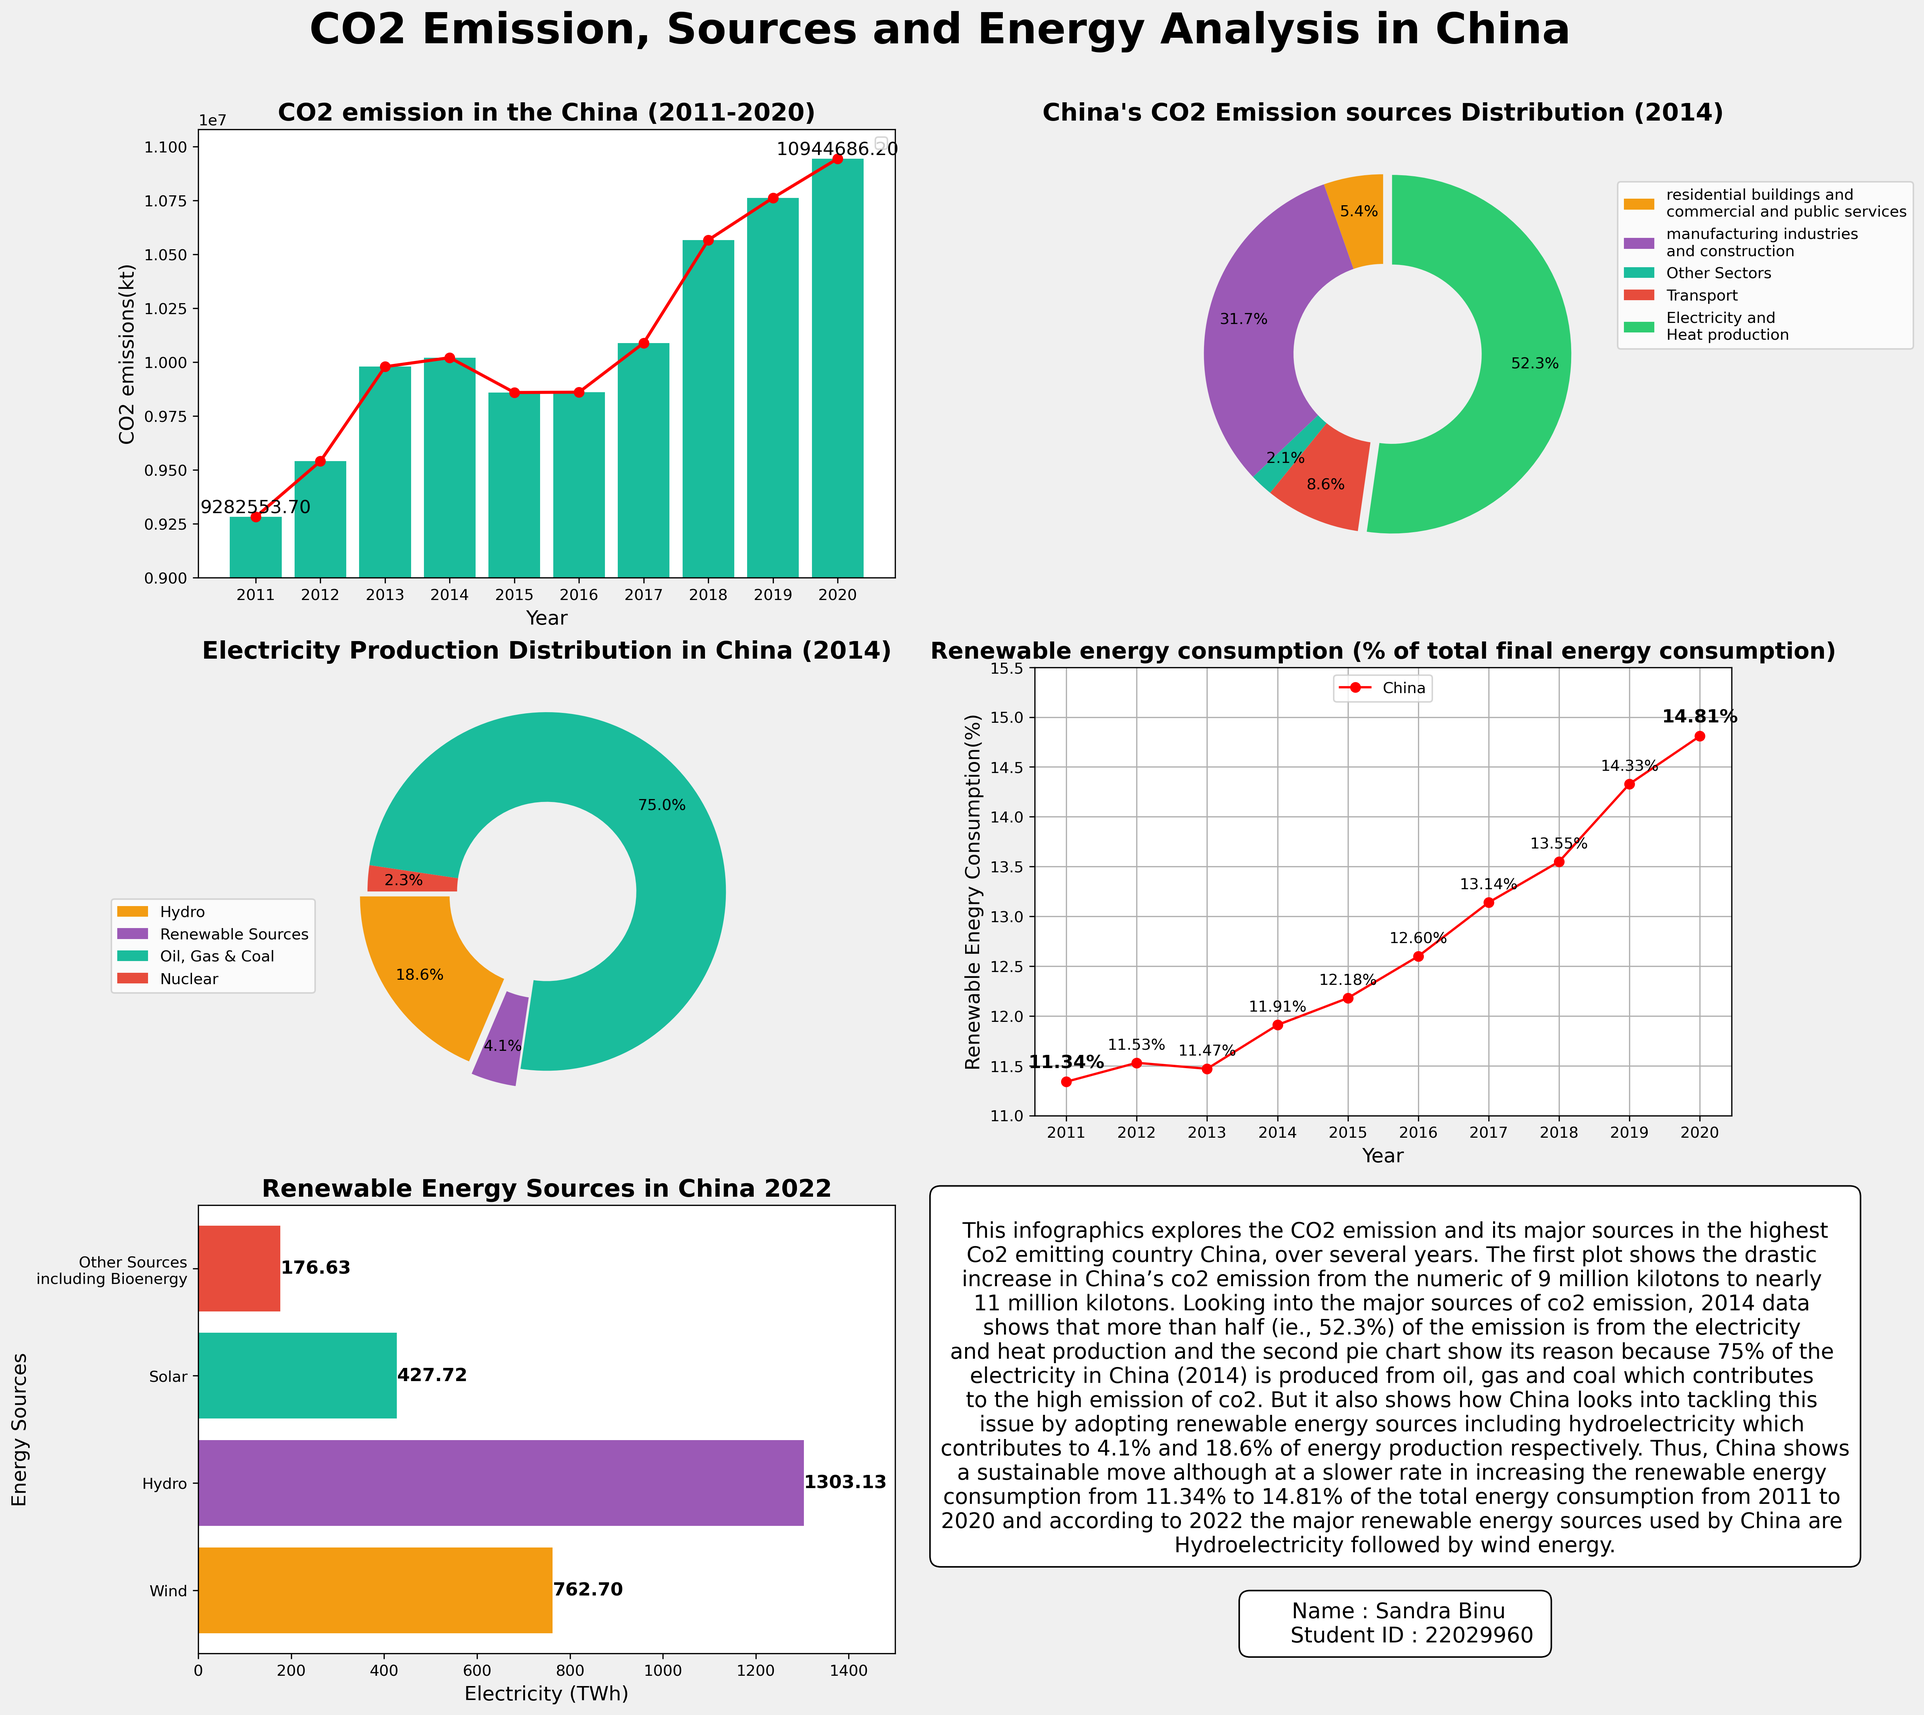
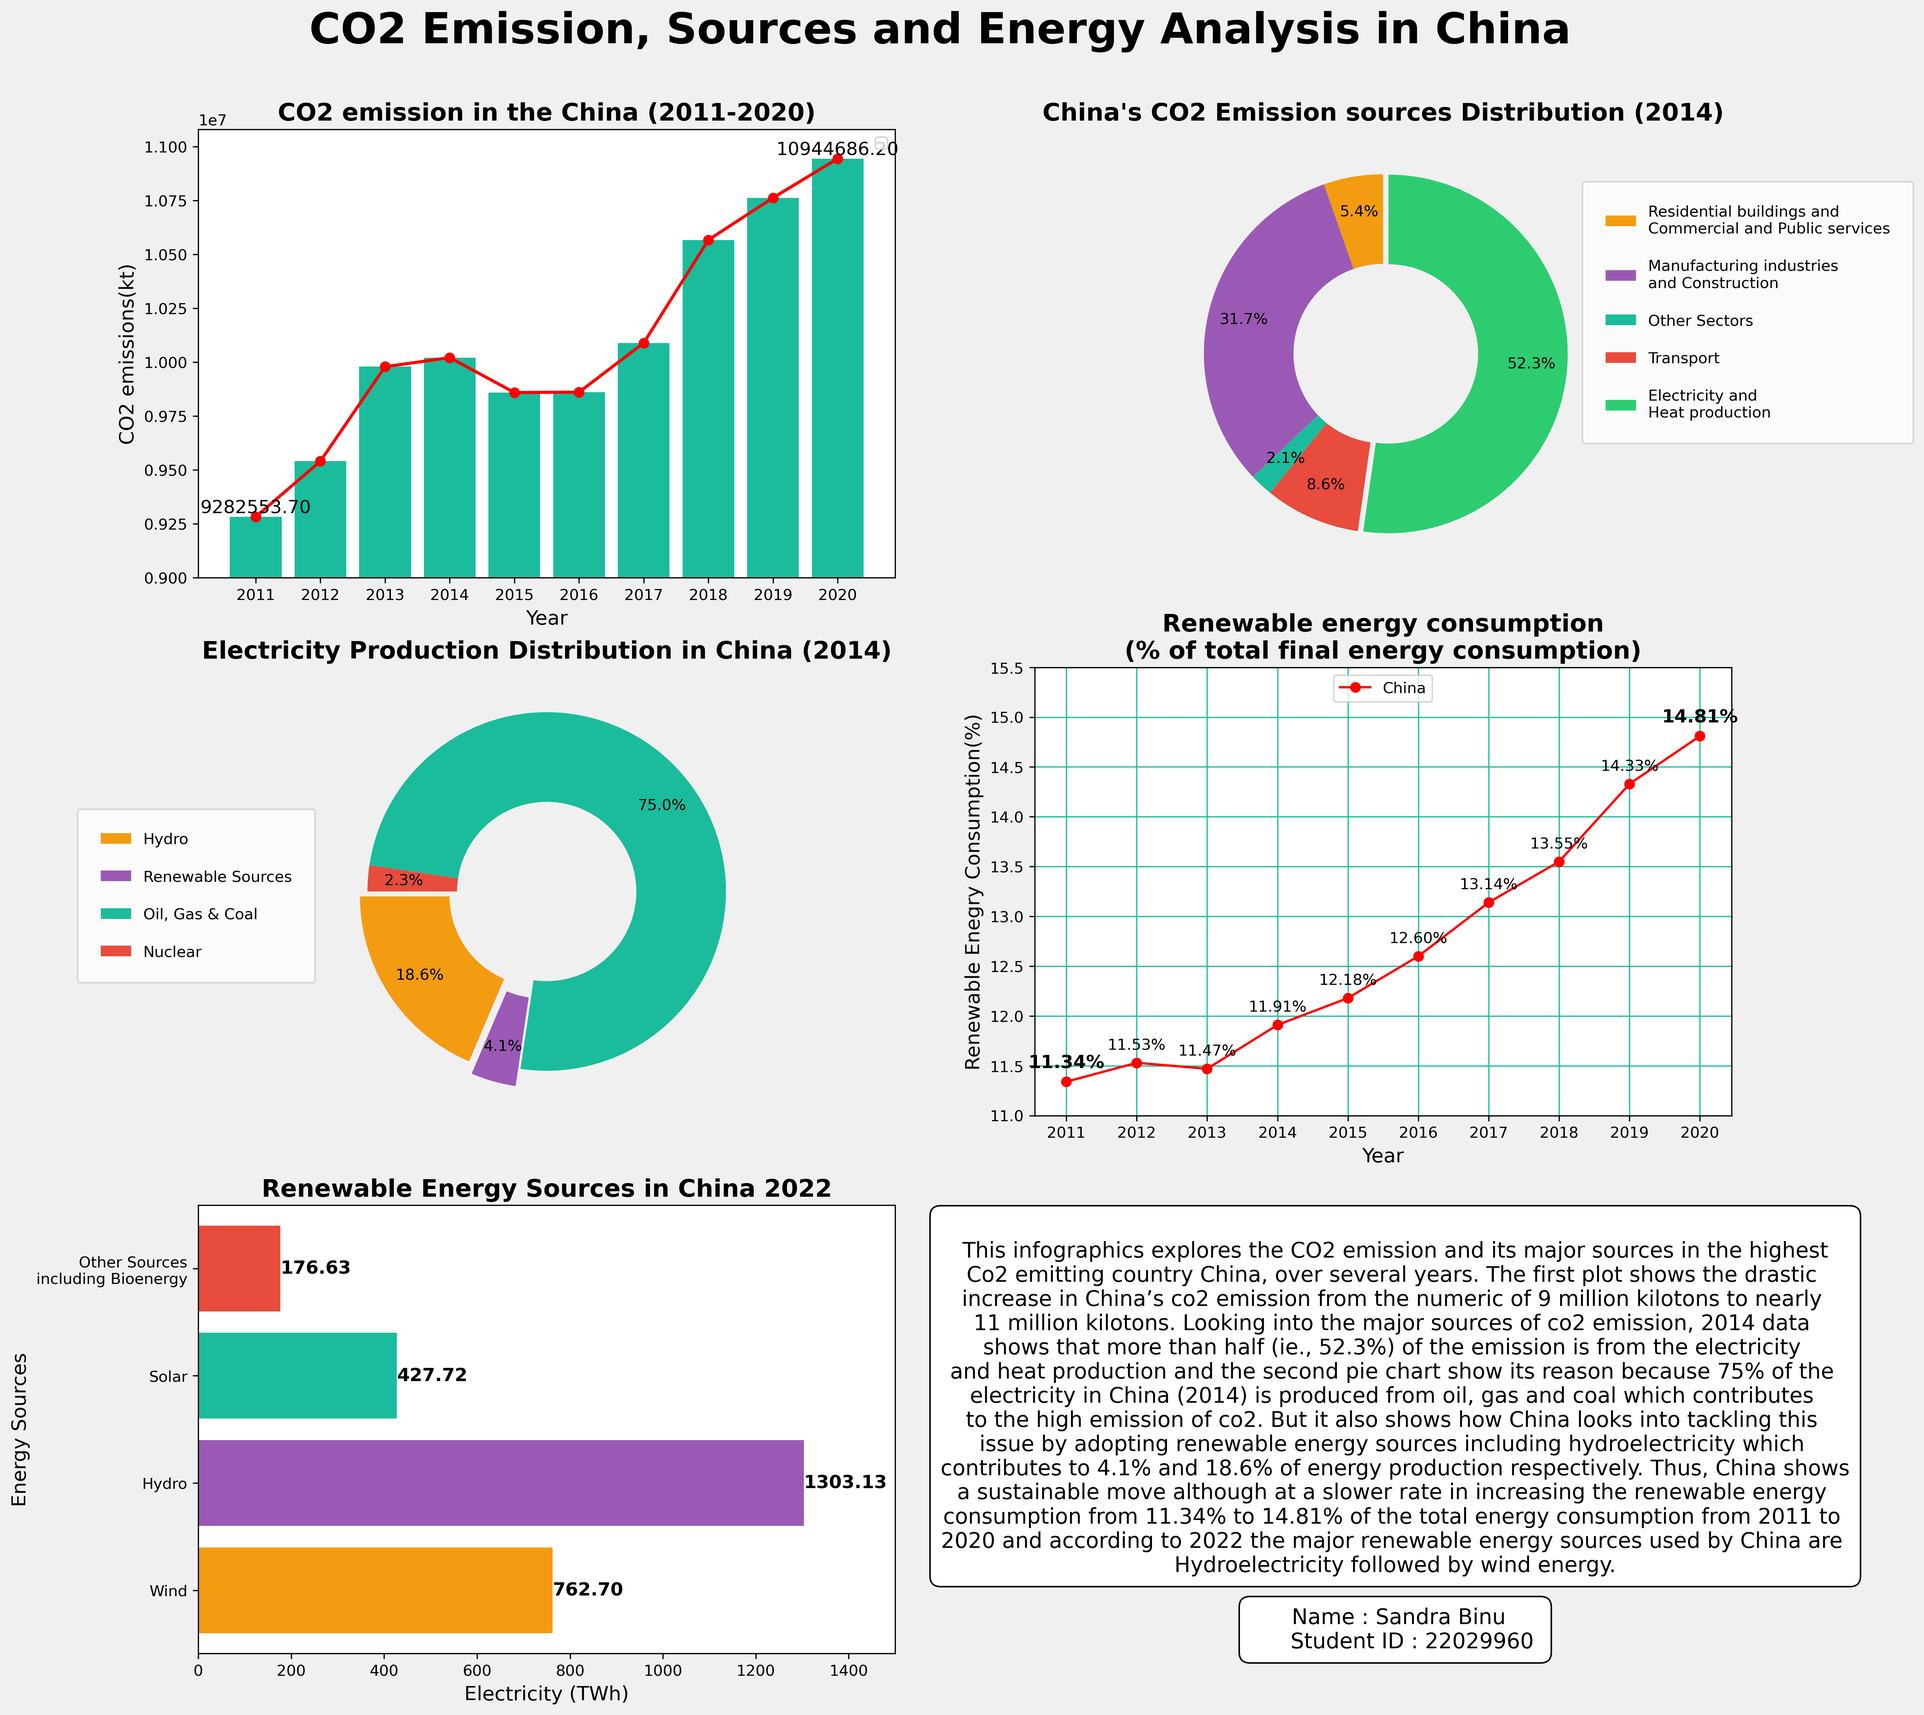
editing colours

diff --git a/Infographics.py b/Infographics.py
@@ -9,7 +9,7 @@ import pandas as pd
 import matplotlib.pyplot as plt
 
 
-def readFile(filename,yr):
+def readFile(filename, yr):
     """ function to read and clean a World Bank files
 
     Args:
@@ -29,139 +29,174 @@ def readFile(filename,yr):
     final_df = final_df.reset_index(drop=True)
     return final_df
 
-co2_file='Data/co2.csv'
-ele_heat='Data/ele_heat.csv'
-manuf='Data/manuf.csv'
-oth_sectors='Data/oth_sectors.csv'
-transport='Data/transport.csv'
-building='Data/building.csv'
-renew_cons='Data/renew_cons.csv'
-forest='Data/forest_land.csv'
-hydro='Data/hydro_electric.csv'
-ogc='Data/oil_gas_coal.csv'
-renew='Data/renew.csv'
-nucl='Data/nuclear.csv'
-renew_prod=pd.read_csv('Data/modern-renewable-prod.csv')
+
+def Infographic(country, text, name):
+    """ Function to create the infographics
+
+    Args:
+        country (string): the country being analysed
+        text (string): analysed report
+        name (string): name and id
+    """
+    build_df = build[(build['Country Name'] == country)]
+    manuf_df = manuf[(manuf['Country Name'] == country)]
+    oth_sectors_df = oth_sectors[(oth_sectors['Country Name'] == country)]
+    transport_df = transport[(transport['Country Name'] == country)]
+    ele_heat_df = ele_heat[(ele_heat['Country Name'] == country)]
+    renew_df = renew_cons[(renew_cons['Country Name'] == country)]
+
+    fig = plt.figure(figsize=(18, 18), facecolor='#F0F0F0')
+    plt.suptitle('CO2 Emission, Sources and Energy Analysis in China',
+                 fontsize=28, y=0.94, fontweight='bold')
+
+    co2_china = co2[co2['Country Name'] == country]
+    co2_china_yr = co2_china.iloc[:, 1:]
+    co2_china_series = co2_china_yr.squeeze()
+
+    # barchart
+    plt.subplot(3, 2, 1)
+    plt.bar(list(co2_china_yr.columns),
+            co2_china_yr.unstack().values.tolist(), color=colors[5])
+    plt.plot(co2_china_series, marker='o', color='r', linewidth=2)
+    first_value = co2_china_yr.unstack().values.tolist()[0]
+    last_value = co2_china_yr.unstack().values.tolist()[-1]
+    plt.text(co2_china_yr.columns[0], first_value,
+             f'{first_value:.2f}', ha='center', va='bottom', color='black', fontsize=12)
+    plt.text(co2_china_yr.columns[-1], last_value,
+             f'{last_value:.2f}', ha='center', va='bottom', color='black', fontsize=12)
+    plt.title('CO2 emission in China (2011-2020)',
+              fontweight='bold', fontsize=16)
+    plt.ylabel('CO2 emissions(kt)', fontsize=13)
+    plt.xlabel('Year', fontsize=13)
+    plt.ylim(9000000, 11080000)
+    plt.legend()
+
+    dfs = [build_df, manuf_df, oth_sectors_df, transport_df, ele_heat_df]
+    china_data = [df.loc[df['Country Name'] == country, '2014'].values[0]
+                  for df in dfs]
+    sources1 = ['Residential buildings and\nCommercial and Public services',
+                'Manufacturing industries\nand Construction',
+                'Other Sectors', 'Transport', 'Electricity and\nHeat production']
+
+    # Pieplot1
+    plt.subplot(3, 2, 2)
+    plt.pie(china_data, autopct='%1.1f%%',
+            pctdistance=0.8, startangle=90, explode=(0, 0, 0, 0, 0.03), 
+            colors=colors[3:], wedgeprops=dict(width=0.5))
+    plt.title('China\'s CO2 Emission sources Distribution (2014)',
+              fontweight='bold', fontsize=16)
+    plt.legend(labels=sources1, loc='best', bbox_to_anchor=(
+        0.8, 0.2, 0.9, 0.7), borderpad=1.5, labelspacing=1.5)
+
+    # pieplot2
+    pie_dfs = [hydro, renew, ogc, nucl]
+    china_pie = [df.loc[df['Country Name'] == 'China', '2014'].values[0]
+                 for df in pie_dfs]
+    sources = ['Hydro', 'Renewable Sources', 'Oil, Gas & Coal', 'Nuclear']
+    plt.subplot(3, 2, 3)
+    plt.pie(china_pie, autopct='%1.1f%%', startangle=180,
+            pctdistance=0.8, explode=(0.05, 0.1, 0, 0), colors=colors[3:], 
+            wedgeprops=dict(width=0.5))
+    plt.title('Electricity Production Distribution in China (2014)',
+              fontweight='bold', fontsize=16)
+    plt.legend(labels=sources, loc='best', bbox_to_anchor=(
+        0, 0, 0, 0.7), borderpad=1.5, labelspacing=1.5)
+
+    renew_df.set_index('Country Name', inplace=True)
+
+    # linechart
+    plt.subplot(3, 2, 4)
+    plt.grid(color=colors[5])
+    for country in renew_df.index:
+        plt.plot(renew_df.columns,
+                 renew_df.loc[country], label=country, marker='o', color='r')
+        for i, (year, value) in enumerate(zip(renew_df.columns, renew_df.loc[country])):
+            if i == 0 or i == len(renew_df.columns) - 1:
+                plt.text(year, value + 0.1, f'{value:.2f}%', ha='center',
+                         va='bottom', color='black', fontsize=12, fontweight='bold')
+            else:
+                plt.text(year, value + 0.1, f'{value:.2f}%',
+                         ha='center', va='bottom', color='black', fontsize=10)
+    plt.title('Renewable energy consumption\n(% of total final energy consumption)',
+              fontweight='bold', fontsize=16)
+    plt.xlabel('Year', fontsize=13)
+    plt.ylabel('Renewable Enegry Consumption(%)', fontsize=13)
+    plt.ylim(11, 15.5, 0.5)
+    plt.legend(loc='upper center')
+
+    # horizontal barchart
+    selected_data = renew_prod[(renew_prod['Entity'] == country) & (
+        renew_prod['Year'] == 2022)]
+    bar_data = selected_data[['Electricity from wind - TWh',
+                              'Electricity from hydro - TWh',
+                              'Electricity from solar - TWh',
+                              'Other renewables including bioenergy - TWh']]
+    # bar_data = bar_data.transpose()
+    bar_values = bar_data.unstack().values.tolist()
+    # colors=['blue', 'green', 'yellow', 'orange']
+    renew_sources = ['Wind', 'Hydro', 'Solar',
+                     'Other Sources\nincluding Bioenergy']
+    plt.subplot(3, 2, 5)
+    bars = plt.barh(renew_sources, bar_values, color=colors[3:])
+    # bar_data.plot(kind='barh', legend=False)
+    plt.title('Renewable Energy Sources in China 2022',
+              fontweight='bold', fontsize=16)
+    plt.xlabel('Electricity (TWh)', fontsize=13)
+    plt.ylabel('Energy Sources', fontsize=13)
+    plt.xlim(0, 1500)
+    for bar, value in zip(bars, bar_values):
+        plt.text(bar.get_width(), bar.get_y() + bar.get_height() / 2, f'{value:.2f}',
+                 va='center', ha='left', fontsize=12, fontweight='bold')
+
+    plt.text(0.73, 0.24, text, ha='center', va='center',
+             transform=plt.gcf().transFigure, fontsize=14,
+             bbox=dict(facecolor='white', edgecolor='black', boxstyle='round,pad=0.5'))
+    plt.text(0.73, 0.122, name, ha='center', va='center',
+             transform=plt.gcf().transFigure, fontsize=14,
+             bbox=dict(facecolor='white', edgecolor='black', boxstyle='round,pad=0.5'))
+    plt.savefig('22029960.png', dpi=300, bbox_inches='tight')
+    
 
 
-cntry_list=['China']
+co2_file = 'Data/co2.csv'
+ele_heat = 'Data/ele_heat.csv'
+manuf = 'Data/manuf.csv'
+oth_sectors = 'Data/oth_sectors.csv'
+transport = 'Data/transport.csv'
+building = 'Data/building.csv'
+renew_cons = 'Data/renew_cons.csv'
+hydro = 'Data/hydro_electric.csv'
+ogc = 'Data/oil_gas_coal.csv'
+renew = 'Data/renew.csv'
+nucl = 'Data/nuclear.csv'
+renew_prod = pd.read_csv('Data/modern-renewable-prod.csv')
+
+
+cntry = 'China'
 yr_co2 = [str(year) for year in range(1960, 2011)] + [str(year)
-                                                  for year in range(2021, 2023)]
-yr_pie=[str(year) for year in range(1960, 2014)] + [str(year)
-                                                  for year in range(2015, 2023)]
-yr_null=[]
+                                                      for year in range(2021, 2023)]
+yr_pie = [str(year) for year in range(1960, 2014)] + [str(year)
+                                                      for year in range(2015, 2023)]
+yr_null = []
 
-co2=readFile(co2_file,yr_co2)
-ele_heat=readFile(ele_heat,yr_pie)
-manuf=readFile(manuf,yr_pie)
-oth_sectors=readFile(oth_sectors,yr_pie)
-transport=readFile(transport,yr_pie)
-build=readFile(building,yr_pie)
-forest=readFile(forest, yr_co2)
-hydro=readFile(hydro, yr_co2)
-ogc=readFile(ogc, yr_co2)
-renew=readFile(renew, yr_co2)
-nucl=readFile(nucl, yr_co2)
-renew_cons=readFile(renew_cons, yr_co2)
-
-
-build_df=build[(build['Country Name'].isin(cntry_list))]
-manuf_df=manuf[(manuf['Country Name'].isin(cntry_list))]
-oth_sectors_df=oth_sectors[(oth_sectors['Country Name'].isin(cntry_list))]
-transport_df=transport[(transport['Country Name'].isin(cntry_list))]
-ele_heat_df=ele_heat[(ele_heat['Country Name'].isin(cntry_list))]
-renew_df=renew_cons[(renew_cons['Country Name'].isin(cntry_list))]
-
-colors = ['#3498db', '#e74c3c', '#2ecc71', '#f39c12', '#9b59b6', '#1abc9c', '#e74c3c', '#2ecc71']
+co2 = readFile(co2_file, yr_co2)
+ele_heat = readFile(ele_heat, yr_pie)
+manuf = readFile(manuf, yr_pie)
+oth_sectors = readFile(oth_sectors, yr_pie)
+transport = readFile(transport, yr_pie)
+build = readFile(building, yr_pie)
+hydro = readFile(hydro, yr_co2)
+ogc = readFile(ogc, yr_co2)
+renew = readFile(renew, yr_co2)
+nucl = readFile(nucl, yr_co2)
+renew_cons = readFile(renew_cons, yr_co2)
 
 
-
-fig=plt.figure(figsize=(18, 18),facecolor='#F0F0F0')
-plt.suptitle('CO2 Emission, Sources and Energy Analysis in China',fontsize=28,y=0.94,fontweight='bold')
-
-
-co2_china=co2[co2['Country Name']=='China']
-co2_china_yr=co2_china.iloc[:,1:]
-co2_china_series=co2_china_yr.squeeze()
-
-plt.subplot(3,2,1)
-plt.bar(list(co2_china_yr.columns),co2_china_yr.unstack().values.tolist(),color=colors[5])
-plt.plot(co2_china_series,marker='o',color='r',linewidth=2)
-first_value = co2_china_yr.unstack().values.tolist()[0]
-last_value = co2_china_yr.unstack().values.tolist()[-1]
-plt.text(co2_china_yr.columns[0], first_value, f'{first_value:.2f}', ha='center', va='bottom', color='black', fontsize=12)
-plt.text(co2_china_yr.columns[-1], last_value, f'{last_value:.2f}', ha='center', va='bottom', color='black', fontsize=12)
-plt.title('CO2 emission in the China (2011-2020)',fontweight='bold',fontsize=16)
-plt.ylabel('CO2 emissions(kt)',fontsize=13)
-plt.xlabel('Year',fontsize=13)
-plt.ylim(9000000,11080000)
-plt.legend()
+colors = ['#3498db', '#e74c3c', '#2ecc71', '#f39c12',
+          '#9b59b6', '#1abc9c', '#e74c3c', '#2ecc71']
 
 
-dfs = [build_df,manuf_df, oth_sectors_df, transport_df, ele_heat_df]
-china_data = [df.loc[df['Country Name'] == 'China', '2014'].values[0] 
-              for df in dfs]
-sources1 = ['residential buildings and\ncommercial and public services', 
-            'manufacturing industries\nand construction', 
-            'Other Sectors', 'Transport', 'Electricity and\nHeat production']
-plt.subplot(3,2,2)
-plt.pie(china_data, autopct='%1.1f%%', 
-        pctdistance=0.8,startangle=90, explode=(0,0,0,0,0.05),colors=colors[3:],wedgeprops=dict(width=0.5))
-plt.title('China\'s CO2 Emission sources Distribution (2014)',fontweight='bold',fontsize=16)
-plt.legend(labels=sources1,loc='best',bbox_to_anchor=(0.8, 0.2, 0.9, 0.7))
-
-
-pie_dfs=[hydro,renew,ogc,nucl]
-china_pie=[df.loc[df['Country Name'] == 'China', '2014'].values[0] for df in pie_dfs]
-sources=['Hydro','Renewable Sources','Oil, Gas & Coal','Nuclear']
-plt.subplot(3,2,3)
-plt.pie(china_pie, autopct='%1.1f%%', startangle=180,
-        pctdistance=0.8,explode=(0.05,0.1,0,0),colors=colors[3:],wedgeprops=dict(width=0.5))
-plt.title('Electricity Production Distribution in China (2014)',fontweight='bold',fontsize=16)
-plt.legend(labels=sources,loc='best', bbox_to_anchor=(0, 0, 0, 0.5))
-
-
-renew_df.set_index('Country Name', inplace=True)
-plt.subplot(3,2,4)
-plt.grid()
-for country in renew_df.index:
-    plt.plot(renew_df.columns, renew_df.loc[country], label=country, marker='o',color='r')
-    for i, (year, value) in enumerate(zip(renew_df.columns, renew_df.loc[country])):
-        if i == 0 or i == len(renew_df.columns) - 1:
-            plt.text(year, value + 0.1, f'{value:.2f}%', ha='center', va='bottom', color='black', fontsize=12, fontweight='bold')
-        else:
-            plt.text(year, value +0.1, f'{value:.2f}%', ha='center', va='bottom', color='black', fontsize=10)
-plt.title('Renewable energy consumption (% of total final energy consumption)',
-          fontweight='bold',fontsize=15)
-plt.xlabel('Year',fontsize=13)
-plt.ylabel('Renewable Enegry Consumption(%)',fontsize=13)
-plt.ylim(11,15.5,0.5)
-plt.legend(loc='upper center')
-
-
-
-selected_data = renew_prod[(renew_prod['Entity'] == 'China') & (renew_prod['Year'] == 2022)]
-bar_data = selected_data[['Electricity from wind - TWh', 
-                         'Electricity from hydro - TWh', 
-                          'Electricity from solar - TWh', 
-                          'Other renewables including bioenergy - TWh']]
-#bar_data = bar_data.transpose()
-bar_values=bar_data.unstack().values.tolist()
-#colors=['blue', 'green', 'yellow', 'orange']
-renew_sources=['Wind','Hydro','Solar','Other Sources\nincluding Bioenergy']
-plt.subplot(3,2,5)
-bars=plt.barh(renew_sources,bar_values,color=colors[3:])
-#bar_data.plot(kind='barh', legend=False)
-plt.title('Renewable Energy Sources in China 2022',fontweight='bold',fontsize=16)
-plt.xlabel('Electricity (TWh)',fontsize=13)
-plt.ylabel('Energy Sources',fontsize=13)
-plt.xlim(0,1500)
-for bar, value in zip(bars, bar_values):
-    plt.text(bar.get_width(), bar.get_y() + bar.get_height() / 2, f'{value:.2f}', 
-             va='center', ha='left', fontsize=12,fontweight='bold')
-
-
-text=""" 
+text = """ 
 This infographics explores the CO2 emission and its major sources in the highest
 Co2 emitting country China, over several years. The first plot shows the drastic 
 increase in China’s co2 emission from the numeric of 9 million kilotons to nearly 
@@ -177,18 +212,7 @@ consumption from 11.34% to 14.81% of the total energy consumption from 2011 to
 2020 and according to 2022 the major renewable energy sources used by China are 
 Hydroelectricity followed by wind energy."""
 
-name=""" Name : Sandra Binu
+name = """ Name : Sandra Binu
       Student ID : 22029960 """
-    
-plt.text(0.73, 0.25, text, ha='center', va='center', 
-         transform=plt.gcf().transFigure, fontsize=14, 
-         bbox=dict(facecolor='white', edgecolor='black', boxstyle='round,pad=0.5'))
-plt.text(0.73, 0.125, name , ha='center', va='center', 
-         transform=plt.gcf().transFigure, fontsize=14, 
-         bbox=dict(facecolor='white', edgecolor='black', boxstyle='round,pad=0.5'))
-plt.savefig('22029960.png', dpi=300, bbox_inches='tight')
-#plt.tight_layout()
-#fig.set_facecolor('#F0F0F0')
-plt.show()
 
-
+Infographic('China', text, name)
